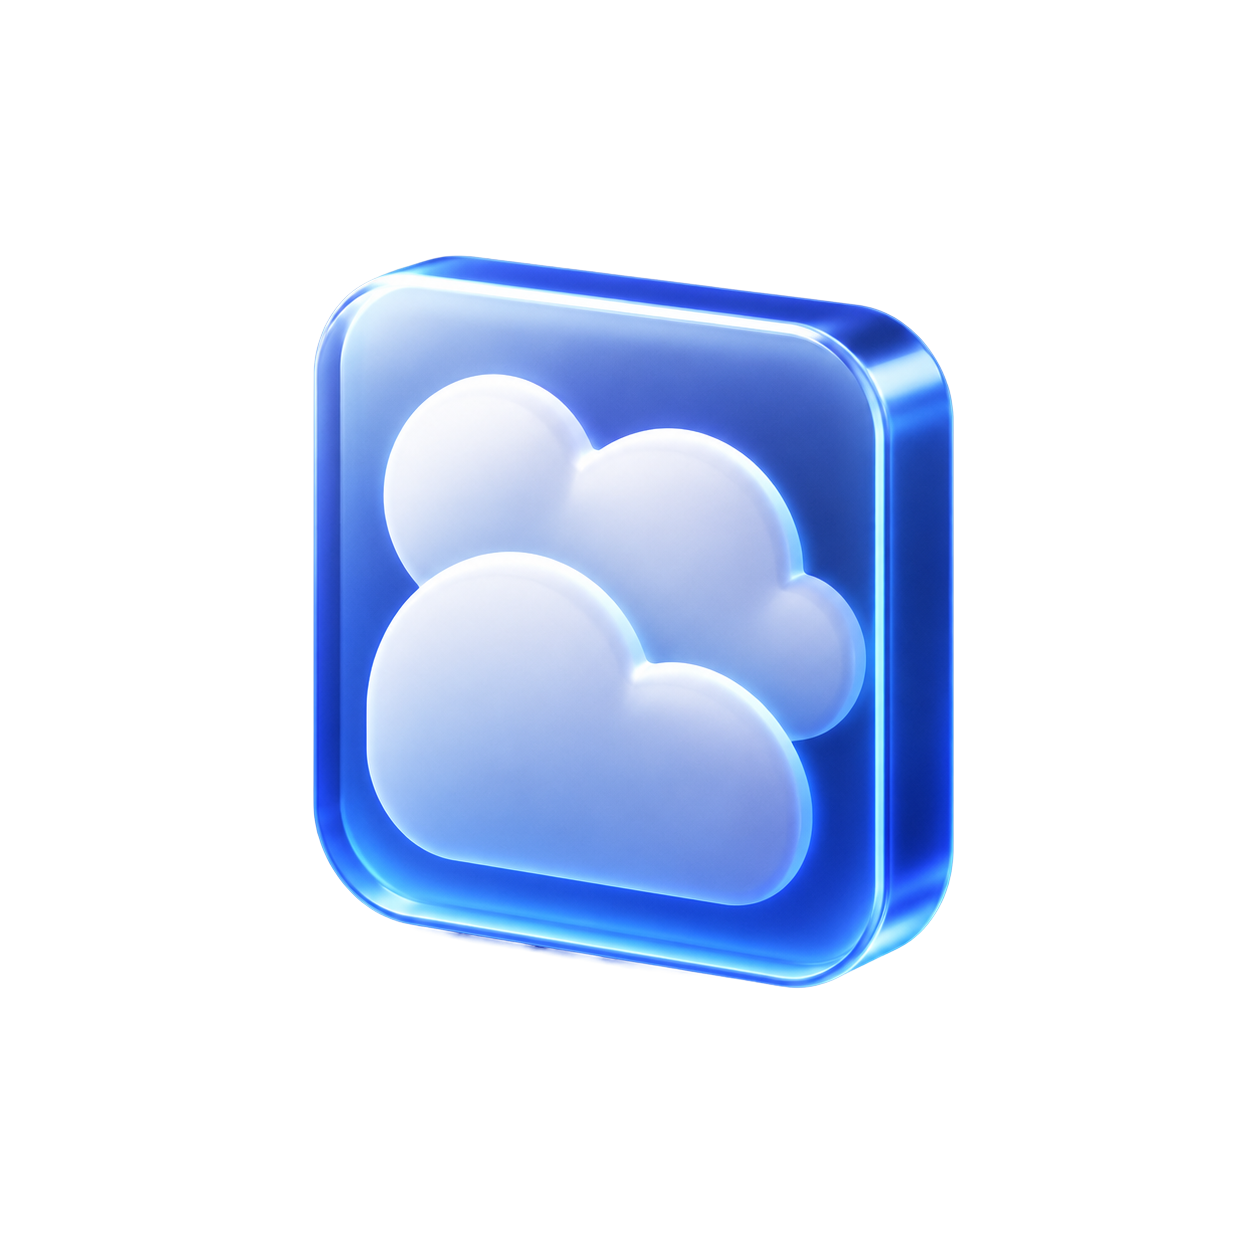
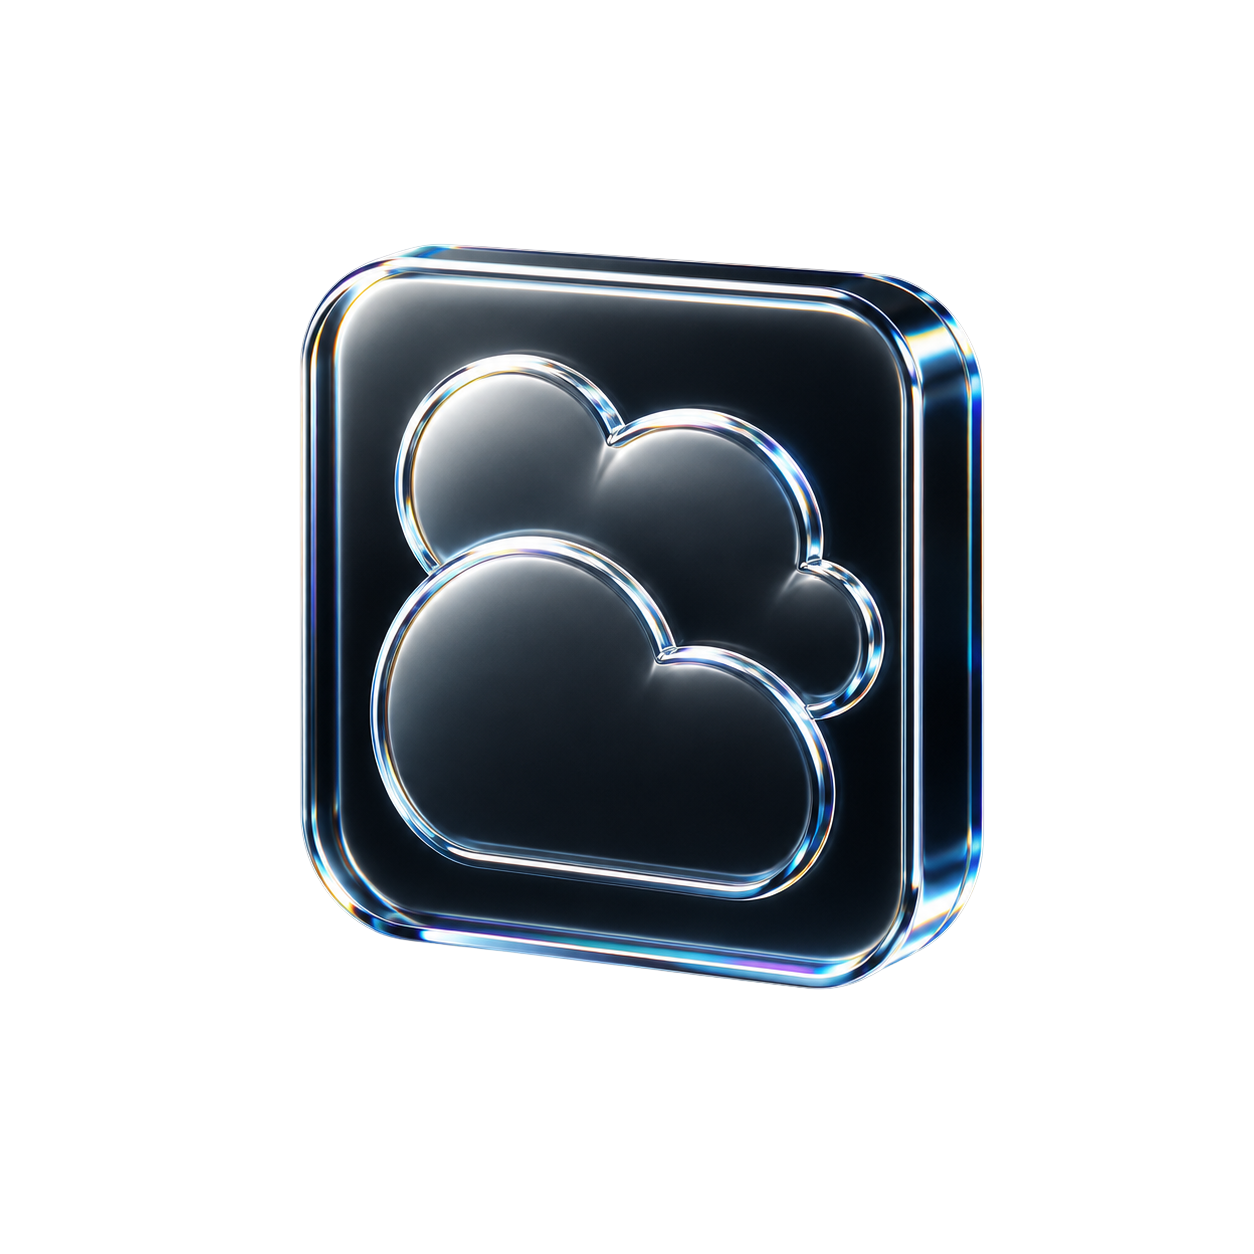
Match landing sections to Figma

Changed region(s): [[0.2177, 0.1866, 0.8086, 0.8086]]

diff --git a/src/presentation/web/public/landing.css b/src/presentation/web/public/landing.css
@@ -162,26 +162,46 @@ body {
   height: 463px;
   overflow: hidden;
   padding: 245px 34px 25px;
-  border: 1px solid var(--tg-line);
   border-radius: 10px;
   background: #1c1c1c;
 }
 .gap-card::after {
   content: "";
   position: absolute;
-  inset: -5% -27% -38% -12%;
-  background: radial-gradient(ellipse at 90% 75%, rgba(63,136,247,.68), transparent 52%);
+  z-index: 0;
+  top: -5px;
+  left: -116px;
+  width: 690px;
+  height: 593px;
+  background: url('/figma/gap-glow-1.svg') center / 100% 100% no-repeat;
   pointer-events: none;
 }
-.gap-card:nth-child(2)::after { inset: -22% -74% -42% -10%; }
-.gap-card:nth-child(3)::after { inset: -38% -28% -62% 26%; }
-.gap-card img { position: absolute; z-index: 1; object-fit: contain; }
-.gap-card:nth-child(1) img { top: 34px; left: 68px; width: 259px; height: 193px; }
-.gap-card:nth-child(2) img { top: 53px; left: 136px; width: 164px; height: 161px; }
-.gap-card:nth-child(3) img { top: 58px; left: 156px; width: 133px; height: 151px; transform: none; }
+.gap-card:nth-child(2)::after {
+  top: -223px;
+  left: -322px;
+  width: 830px;
+  height: 1051px;
+  background-image: url('/figma/gap-glow-2.svg');
+  transform: rotate(88.35deg);
+}
+.gap-card:nth-child(3)::after {
+  top: -148px;
+  left: -85px;
+  width: 694px;
+  height: 895px;
+  background-image: url('/figma/gap-glow-3.svg');
+  transform: rotate(174.36deg);
+}
+.gap-card img { position: absolute; z-index: 1; display: block; opacity: .6; }
+.gap-card:nth-child(1) img { top: 9px; left: 25px; width: 344px; height: 259px; }
+.gap-card:nth-child(2) img { top: 17px; left: 96px; width: 240px; height: 240px; }
+.gap-card:nth-child(3) img { top: 34px; left: 122px; width: 196px; height: 196px; transform: none; }
 .gap-card > div { position: relative; z-index: 2; }
-.gap-card h3 { margin: 0 0 12px; font-size: 23px; line-height: 30px; letter-spacing: -.828px; font-weight: 600; }
-.gap-card p { width: 377px; max-width: 100%; margin: 0; color: var(--tg-muted); font-size: 21px; line-height: 29.7px; letter-spacing: -.759px; }
+.gap-card h3 { margin: 0 0 12px; font-size: 24px; line-height: 29.7px; letter-spacing: -.864px; font-weight: 600; }
+.gap-card p { max-width: 100%; margin: 0; color: var(--tg-muted); font-size: 20px; line-height: 29.7px; letter-spacing: -.72px; }
+.gap-card:nth-child(1) p { width: 312px; }
+.gap-card:nth-child(2) p { width: 366px; }
+.gap-card:nth-child(3) p { width: 377px; }
 
 /* Three instruments — Figma 167:996/1000 */
 .products-section {
@@ -220,37 +240,93 @@ body {
 .product-body > p { width: 651px; margin: 0 0 18px; color: var(--tg-muted); font-size: 21px; line-height: 29.7px; letter-spacing: -.759px; }
 .product-body ul { display: grid; gap: 6px; margin: 0; padding-left: 27px; color: #a4a4a4; font-size: 18px; line-height: 29.7px; letter-spacing: -.648px; }
 
-/* How it works — Figma 167:1141 */
-.engine-section { width: min(1322px, calc(100% - 48px)); height: 676px; margin-top: 131px; }
-.engine-section .section-heading > p { width: 1160px; max-width: 100%; }
-.engine-flow { display: grid; grid-template-columns: repeat(3, 1fr); gap: 26px; margin-top: 63px; }
-.engine-flow article {
+/* How it works — Figma 167:1140, 177:88, 167:1141 */
+.engine-section {
   position: relative;
-  height: 366px;
-  overflow: hidden;
-  padding: 31px 36px 25px;
-  border: 1px solid var(--tg-line);
-  border-radius: 12px;
-  background: #1c1c1c;
+  isolation: isolate;
+  width: min(1322px, calc(100% - 48px));
+  height: 676px;
+  margin-top: 131px;
 }
-.engine-flow article::after {
+.engine-section::before,
+.engine-section::after {
   content: "";
   position: absolute;
   z-index: 0;
-  inset: -16% -42% -74% -30%;
-  background: radial-gradient(ellipse at 68% 60%, rgba(63,136,247,.58), transparent 56%);
+  top: 299px;
+  width: 458px;
+  height: 347px;
+  border-radius: 50%;
+  background: linear-gradient(180deg, #3f88f7 0%, #659cf1 60%, #a8c3f3 100%);
+  filter: blur(20px);
+  opacity: .9;
   pointer-events: none;
 }
-.engine-flow article:nth-child(2)::after { opacity: .16; }
-.engine-flow article:nth-child(3)::after { inset: -16% -28% -74% -42%; }
-.engine-flow b, .engine-flow h3, .engine-flow p, .engine-icon { position: relative; z-index: 1; }
-.engine-flow b { font-size: 22px; line-height: 78px; font-weight: 400; }
-.engine-icon { margin: -18px auto 14px; opacity: .7; background-position: center; background-repeat: no-repeat; background-size: contain; }
-.people { width: 143px; height: 120px; background-image: url('/figma/engine-groups.png'); }
-.layers { width: 119px; height: 122px; background-image: url('/figma/engine-core.png'); }
-.dashboard { width: 130px; height: 118px; background-image: url('/figma/engine-dashboard.png'); }
-.engine-flow h3 { margin: 0; font-size: 22px; line-height: 40px; letter-spacing: -.792px; font-weight: 600; }
-.engine-flow p { margin: 0; color: #fff; font-size: 20px; line-height: 40px; letter-spacing: -.72px; }
+.engine-section::before { left: 66px; }
+.engine-section::after { top: 294px; left: 888px; }
+.engine-section > * { position: relative; z-index: 1; }
+.engine-section .section-heading h2 {
+  width: 842px;
+  max-width: 100%;
+  margin-right: auto;
+  margin-left: auto;
+  font-family: "SF Pro Display", "SF Pro Text", Arial, sans-serif;
+  transform: scaleX(.92);
+  transform-origin: center;
+}
+.engine-section .section-heading > p { width: 1160px; max-width: 100%; opacity: .8; }
+.engine-flow { display: grid; grid-template-columns: repeat(3, minmax(0, 422.886px)); gap: 26.567px; margin-top: 63px; }
+.engine-flow article {
+  position: relative;
+  height: 366.449px;
+  overflow: hidden;
+  padding: 0;
+  border: 0;
+  border-radius: 19.284px;
+  background: #1c1c1c;
+}
+.engine-flow b,
+.engine-flow h3,
+.engine-flow p,
+.engine-icon { position: absolute; z-index: 1; }
+.engine-flow b {
+  top: 30.854px;
+  left: 35.996px;
+  font-size: 30.854px;
+  line-height: 77.135px;
+  letter-spacing: -1.851px;
+  font-family: "SF Pro Display", "SF Pro Text", Arial, sans-serif;
+  font-weight: 600;
+}
+.engine-icon { overflow: hidden; opacity: .7; }
+.engine-icon img { position: absolute; display: block; max-width: none; }
+.people { top: 90.794px; left: 139.446px; width: 143.4px; height: 119.689px; }
+.people img { top: -33.045px; left: -51.971px; width: 241.568px; height: 191.955px; }
+.layers { top: 93.004px; left: 151.796px; width: 118.533px; height: 121.988px; }
+.layers img { top: -33.498px; left: -35.302px; width: 188.377px; height: 188.377px; }
+.dashboard { top: 94.114px; left: 146.416px; width: 130.124px; height: 118.186px; }
+.dashboard img { top: -34.618px; left: -25.08px; width: 187.431px; height: 187.431px; }
+.engine-flow h3 {
+  top: 244.294px;
+  left: 35.996px;
+  width: 303.347px;
+  margin: 0;
+  font-size: 28.283px;
+  line-height: 39.853px;
+  letter-spacing: -1.018px;
+  font-weight: 700;
+}
+.engine-flow p {
+  top: 290.575px;
+  left: 35.996px;
+  width: 303.347px;
+  margin: 0;
+  color: #fff;
+  font-size: 25.712px;
+  line-height: 39.853px;
+  letter-spacing: -.926px;
+  opacity: .78;
+}
 
 /* Audience — Figma 167:972 */
 .audience-section { width: min(1363px, calc(100% - 48px)); height: 474px; margin-top: 158px; }
@@ -357,7 +433,9 @@ body {
   .gap-card:nth-child(1) img,
   .gap-card:nth-child(2) img,
   .gap-card:nth-child(3) img { left: 50%; transform: translateX(-50%); }
-  .gap-card:nth-child(1) img { width: clamp(215px, 18vw, 259px); }
+  .gap-card:nth-child(1) img { width: clamp(285px, 24.6vw, 344px); height: auto; }
+  .gap-card:nth-child(2) img { width: clamp(205px, 17.2vw, 240px); height: auto; }
+  .gap-card:nth-child(3) img { width: clamp(168px, 14vw, 196px); height: auto; }
 
   .products-section {
     grid-template-columns: minmax(0, .95fr) minmax(0, 1.05fr);
@@ -389,7 +467,7 @@ body {
   .gap-section { height: auto; padding-bottom: 100px; }
   .gap-grid { width: min(680px, 100%); margin-right: auto; margin-left: auto; grid-template-columns: 1fr; }
   .gap-card { height: 360px; padding-top: 205px; }
-  .gap-card:nth-child(1) img { top: 20px; height: 175px; }
+  .gap-card:nth-child(1) img { top: 20px; width: 233px; height: auto; }
   .gap-card:nth-child(2) img { top: 28px; }
   .gap-card:nth-child(3) img { top: 28px; }
 
@@ -398,7 +476,10 @@ body {
   .product-stack { width: min(696px, 100%); margin: 54px auto 0; }
 
   .engine-section { height: auto; margin-top: 130px; }
-  .engine-flow { width: min(680px, 100%); margin-right: auto; margin-left: auto; grid-template-columns: 1fr; }
+  .engine-section::before,
+  .engine-section::after { left: 50%; transform: translateX(-50%); }
+  .engine-section::after { top: auto; bottom: 0; }
+  .engine-flow { width: min(422.886px, 100%); margin-right: auto; margin-left: auto; grid-template-columns: 1fr; }
 
   .audience-section { height: auto; margin-top: 130px; }
   .audience-grid { grid-template-columns: 1fr; }
@@ -437,9 +518,9 @@ body {
   .gap-section { width: calc(100% - 32px); height: auto; padding: 65px 0 85px; }
   .gap-grid { grid-template-columns: 1fr; gap: 22px; margin-top: 40px; }
   .gap-card { height: 330px; padding: 190px 26px 22px; }
-  .gap-card:nth-child(1) img { top: 20px; left: 50%; width: 220px; height: 165px; transform: translateX(-50%); }
-  .gap-card:nth-child(2) img { top: 30px; left: 50%; width: 165px; height: 155px; transform: translateX(-50%); }
-  .gap-card:nth-child(3) img { top: 26px; left: 50%; width: 145px; height: 165px; transform: translateX(-50%); }
+  .gap-card:nth-child(1) img { top: 20px; left: 50%; width: 220px; height: auto; transform: translateX(-50%); }
+  .gap-card:nth-child(2) img { top: 30px; left: 50%; width: 165px; height: auto; transform: translateX(-50%); }
+  .gap-card:nth-child(3) img { top: 26px; left: 50%; width: 145px; height: auto; transform: translateX(-50%); }
   .gap-card h3 { font-size: 21px; }
   .gap-card p { font-size: 17px; line-height: 24px; }
 
@@ -455,9 +536,22 @@ body {
   .product-body > p { width: 100%; font-size: 16px; line-height: 23px; }
   .product-body ul { font-size: 14px; line-height: 24px; }
 
-  .engine-section { width: calc(100% - 32px); height: auto; margin-top: 100px; }
-  .engine-flow { grid-template-columns: 1fr; gap: 22px; margin-top: 42px; }
-  .engine-flow article { height: 300px; }
+  .engine-section { width: 100%; height: auto; margin-top: 100px; padding: 0 16px; }
+  .engine-section::before { top: 225px; }
+  .engine-section::after { top: auto; bottom: -10px; }
+  .engine-section::before,
+  .engine-section::after { opacity: .72; }
+  .engine-section .section-heading,
+  .engine-section .section-heading h2,
+  .engine-section .section-heading > p { width: 100%; min-width: 0; max-width: 100%; overflow-wrap: break-word; }
+  .engine-section .section-heading h2 { font-size: 25px; line-height: 31px; letter-spacing: -1.3px; transform: none; }
+  .engine-section .section-heading > p { padding: 0 6px; }
+  .engine-flow { width: 100%; max-width: 422.886px; grid-template-columns: minmax(0, 1fr); gap: 22px; margin: 42px auto 0; }
+  .engine-flow article { width: 100%; min-width: 0; max-width: 100%; height: 310px; border-radius: 16px; }
+  .engine-flow b { top: 18px; left: 24px; font-size: 24px; line-height: 52px; letter-spacing: -1.2px; }
+  .engine-icon { top: 66px; left: 50%; transform: translateX(-50%); }
+  .engine-flow h3 { top: 210px; left: 24px; width: calc(100% - 48px); font-size: 23px; line-height: 32px; letter-spacing: -.8px; }
+  .engine-flow p { top: 247px; left: 24px; width: calc(100% - 48px); font-size: 18px; line-height: 28px; letter-spacing: -.6px; }
   .audience-section { width: calc(100% - 32px); height: auto; margin-top: 100px; }
   .audience-grid { grid-template-columns: 1fr; gap: 20px; margin-top: 42px; }
   .audience-grid article { height: auto; min-height: 225px; }